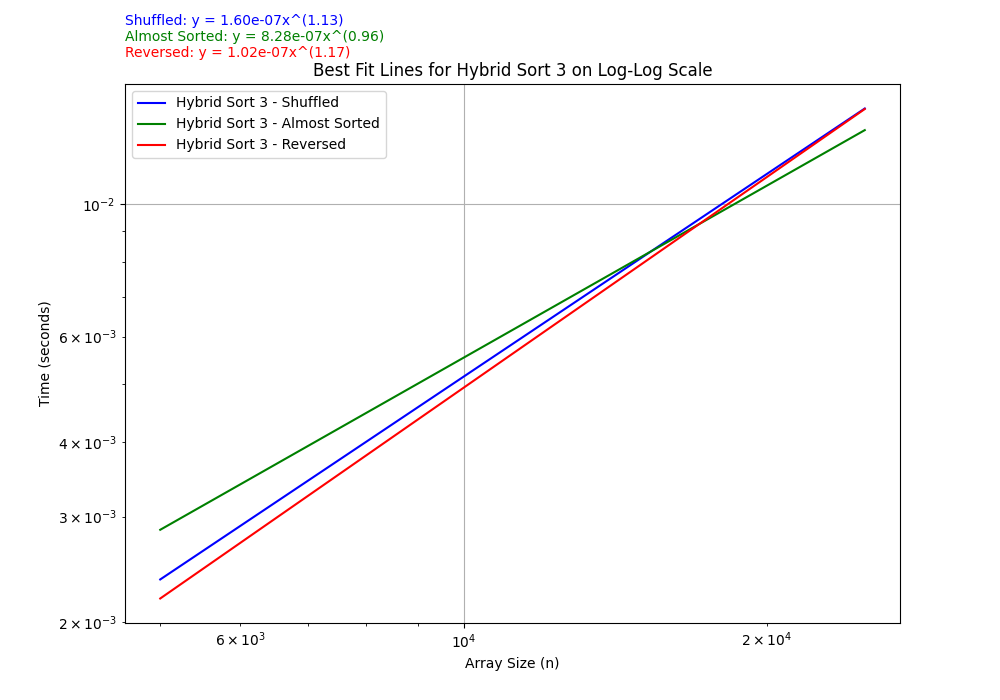
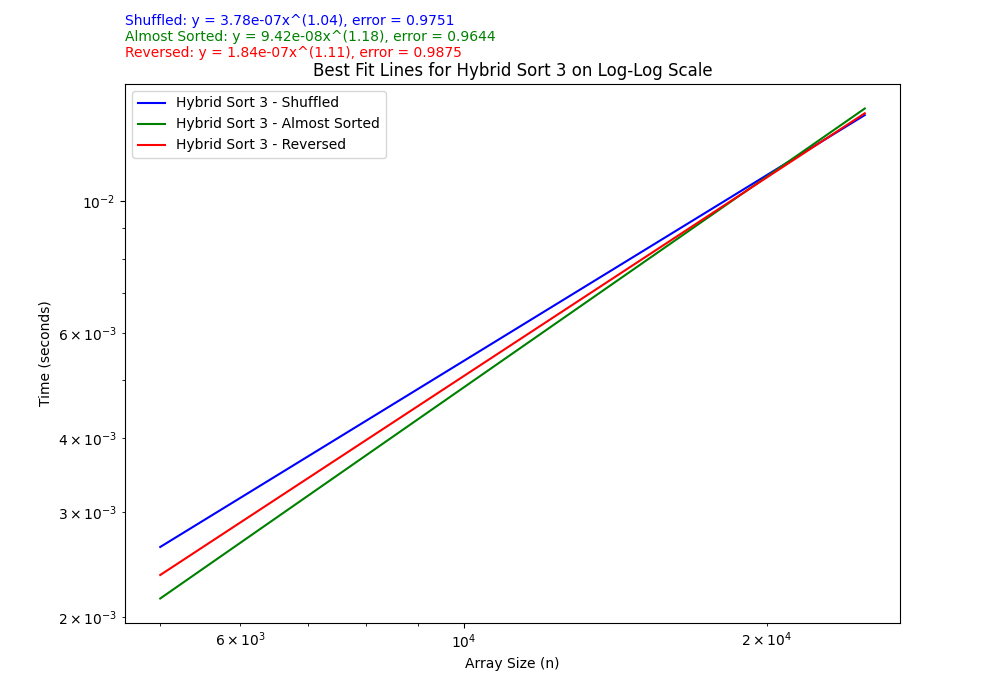
added r2 error for best fit line

diff --git a/main.py b/main.py
@@ -13,6 +13,7 @@ from shell_sort4 import shell_sort4
 from hybrid_sort1 import hybrid_sort1
 from hybrid_sort2 import hybrid_sort2
 from hybrid_sort3 import hybrid_sort3
+from sklearn.metrics import r2_score
 
 
 def plot_and_save_best_fit_lines(testN, timings, algorithm_name):
@@ -27,32 +28,33 @@ def plot_and_save_best_fit_lines(testN, timings, algorithm_name):
     for i, label in enumerate(labels):  # For each input distribution
         y_log = np.log(timings[:, i])
         slope, intercept = np.polyfit(x_log, y_log, 1)
-        best_fit_y = np.exp(intercept) * testN**slope
+        best_fit_y_log = slope * x_log + intercept  # Logarithm of the predicted values
+        best_fit_y = np.exp(best_fit_y_log)  # Anti-log to get back to the original scale
 
-        plt.plot(
+        plt.loglog(
             testN, best_fit_y, color=colors[i], label=f"{algorithm_name} - {label}"
         )
 
-        # Create equation string
-        equation_str = f"{label}: y = {np.exp(intercept):.2e}x^({slope:.2f})"
+        # Calculate R^2 and MSE
+        r2 = r2_score(y_log, best_fit_y_log)
+
+        # Create equation and metrics string
+        metrics_str = f"{label}: y = {np.exp(intercept):.2e}x^({slope:.2f}), error = {r2:.4f}"
 
         # Place text on the plot
         plt.text(
             0,
             y_position,
-            equation_str,
+            metrics_str,
             transform=plt.gca().transAxes,
             color=colors[i],
         )
-        y_position -= 0.03  # Adjust y position for the next line of text
+        y_position -= 0.03  # Adjust y position for the next line of text, making room for additional metrics
 
-    plt.xscale("log")
-    plt.yscale("log")
     plt.xlabel("Array Size (n)")
     plt.ylabel("Time (seconds)")
     plt.title(f"Best Fit Lines for {algorithm_name} on Log-Log Scale")
     plt.legend()
-    plt.grid(True)
 
     # Save each plot with a unique name based on the algorithm
     plt.savefig(f"{algorithm_name}_Performance.png")
@@ -64,10 +66,9 @@ def plot_and_save_actual_timings(testN, timings, algorithm_name):
     labels = ['Shuffled', 'Almost Sorted', 'Reversed']
     
     for i, label in enumerate(labels):  # For each input distribution
-        plt.plot(testN, timings[:, i], 'o-', color=colors[i], label=f'{algorithm_name} - {label}')
+        plt.loglog(testN, timings[:, i], 'o-', color=colors[i], label=f'{algorithm_name} - {label}')
 
-    plt.xscale('log')
-    plt.yscale('log')
+
     plt.xlabel('Array Size (n)')
     plt.ylabel('Time (seconds)')
     plt.title(f'Actual Timings for {algorithm_name} on Log-Log Scale')
